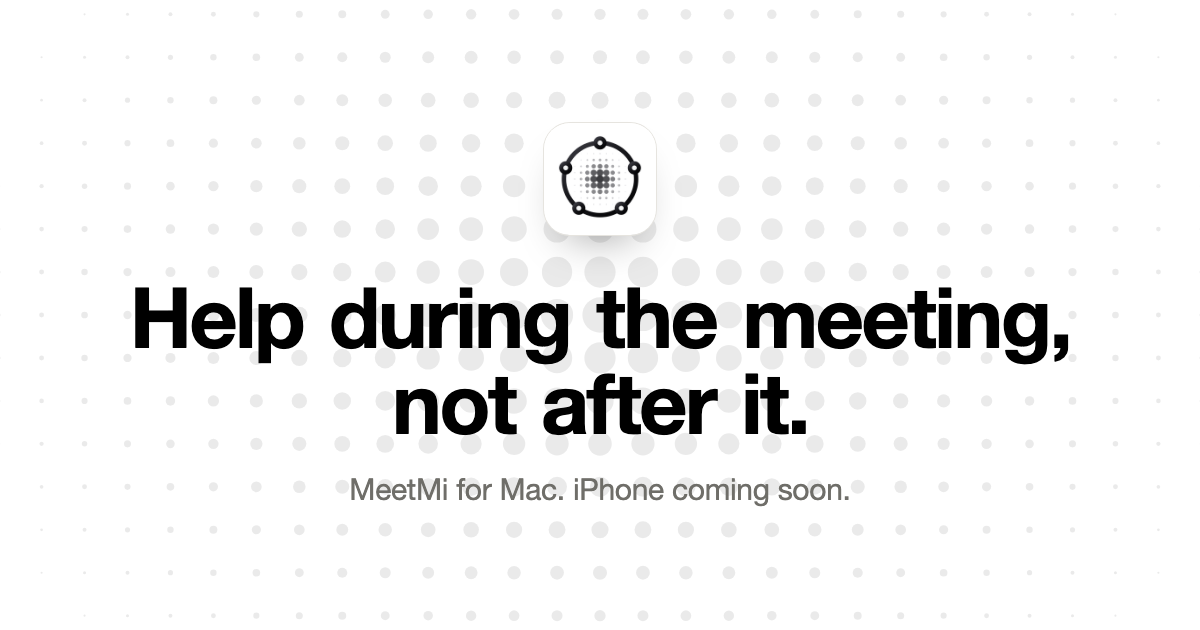
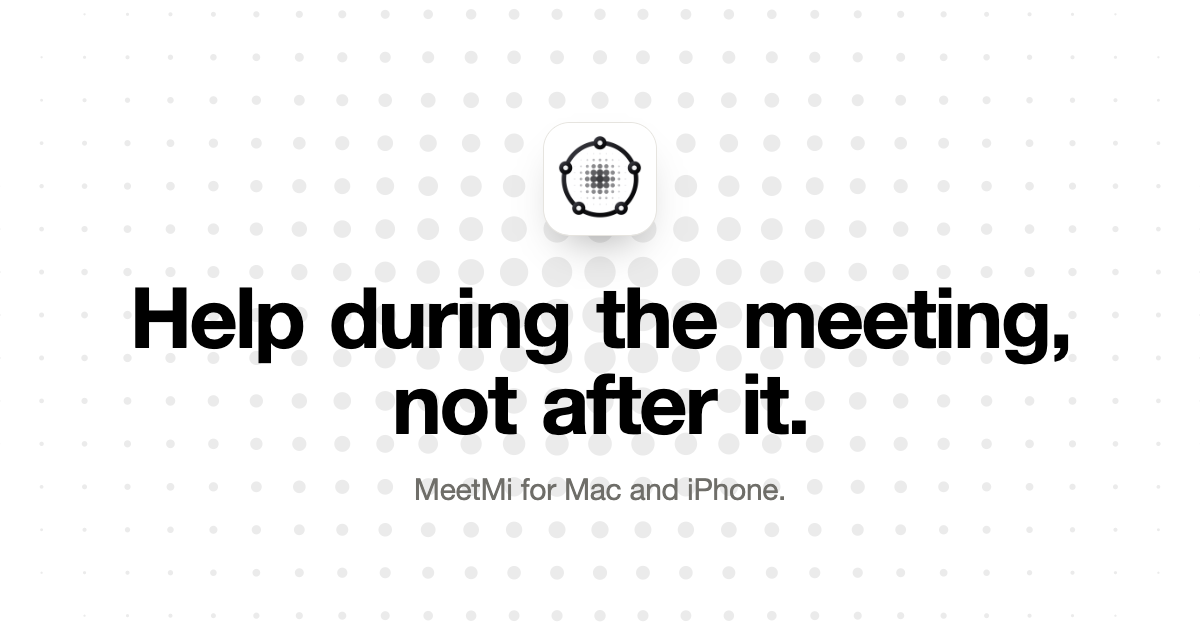
Sync site from meeting-ai docs/pages

Changed region(s): [[0.2775, 0.754, 0.7092, 0.8143]]

diff --git a/_og/og.html b/_og/og.html
@@ -12,5 +12,5 @@
 <div class="box">
   <img src="../assets/img/icon-256.png" alt="">
   <h1>Help during the meeting,<br>not after it.</h1>
-  <p>MeetMi for Mac. iPhone coming soon.</p>
+  <p>MeetMi for Mac and iPhone.</p>
 </div>

diff --git a/support/index.md b/support/index.md
@@ -5,7 +5,7 @@ title: MeetMi Support
 
 # MeetMi Support
 
-Version: `managed-ai-apple-pages-v2`<br>
+Version: `managed-ai-apple-pages-v3`<br>
 Applies to MeetMi Managed AI on the App Store, macOS and iPhone (one record, one shared subscription).
 
 [中文](../zh/support/) · [Privacy Policy](../privacy/)
@@ -32,8 +32,9 @@ If a purchase is pending family approval, local meeting features remain availabl
 
 ## Permissions
 
-- Microphone: capture the user's speech after a meeting starts. On iPhone this is the only audio source; place the phone near the speaker or use it in the room.
-- Screen and system audio on macOS: capture the other side of a meeting app. Raw audio is not stored. iPhone has no system-audio capture.
+- Microphone: capture the user's speech after a meeting starts. On iPhone this is the default; place the phone near the speaker or use it in the room.
+- Screen and system audio on macOS: capture the other side of a meeting app. Raw audio is not stored.
+- System audio on iPhone (version 1.0.1 and later, iOS 27): optional, chosen in Settings → Meeting → Audio capture. iOS shows its sharing sheet at the start of every meeting — choose the entire screen. MeetMi takes only the sound and keeps no picture.
 - User-selected folder: read workspace documents and write meeting notes. Both apps keep a security-scoped bookmark; on iPhone the folder is chosen in the Files picker (iCloud Drive or On My iPhone). If the folder moves or permission is withdrawn, choose the folder again.
 
 System permission is not consent from other participants. The user must give any notice required by law or workplace policy.
@@ -65,7 +66,7 @@ System permission is not consent from other participants. The user must give any
 ## Known limits
 
 - macOS 26 or later; iOS 26 or later (iPhone only — no iPad layout in this release).
-- iPhone: microphone only; no system-audio capture exists on iOS.
+- iPhone system audio hears what the phone plays (videos, lectures, podcasts) but not calls: iOS does not pass phone, FaceTime, WeChat, Zoom or similar call audio to any app. For a call, use Microphone only and put the call on speaker. On iOS 26, and on iPad (which runs the iPhone app in compatibility mode), the microphone is the only source.
 - Mainland China is excluded until a separate legal assessment is complete.
 - Simulator builds cannot run on-device speech models.
 - These pages are published at https://kinlu.github.io/meetmi/ and are publicly reachable.

diff --git a/privacy/index.md b/privacy/index.md
@@ -5,8 +5,8 @@ title: MeetMi Privacy Policy
 
 # MeetMi Privacy Policy
 
-Version: `managed-ai-apple-pages-v2`<br>
-Effective: 2026-09-19 (v1: 2026-08-29)<br>
+Version: `managed-ai-apple-pages-v3`<br>
+Effective: 2026-09-26 (v2: 2026-09-19, v1: 2026-08-29)<br>
 Applies to: MeetMi Managed AI distributed through the Apple App Store on macOS and iPhone. Both apps are one App Store record with one shared subscription and use this same policy.
 
 Developer / legal entity, postal address, and privacy contact will be filled when the Apple Developer Program account is opened. Until then this page is the canonical draft that App and store materials must match.
@@ -25,7 +25,7 @@ MeetMi Local is a separate BYOK product with a different app identity, storage, 
 - MeetMi does not save or upload raw audio.
 - Speech recognition and subtitle translation use Apple on-device capabilities.
 - Transcripts, advice, analysis, notes, workspace indexes, and extraction caches are stored on the device or in a user-selected workspace by default.
-- On iPhone the app uses the microphone only and does not capture audio from other apps. A meeting the user has started keeps transcribing while the phone is locked; it stops when the user ends or pauses it.
+- On iPhone the microphone is the default and the only audio source on iOS 26. From version 1.0.1 on iOS 27, the user may instead choose system audio: at the start of each meeting iOS shows its own sharing sheet, and once the user agrees MeetMi receives the sound the phone is playing (a video, a lecture, a podcast). Only the sound is used; screen frames are discarded as they arrive and are never stored or uploaded. iOS does not pass call audio (phone, FaceTime, WeChat, Zoom and similar) to any app, so calls cannot be heard this way. A meeting the user has started keeps transcribing while the phone is locked or another app is in front; it stops when the user ends or pauses it.
 
 ## 3. Managed cloud AI
 
